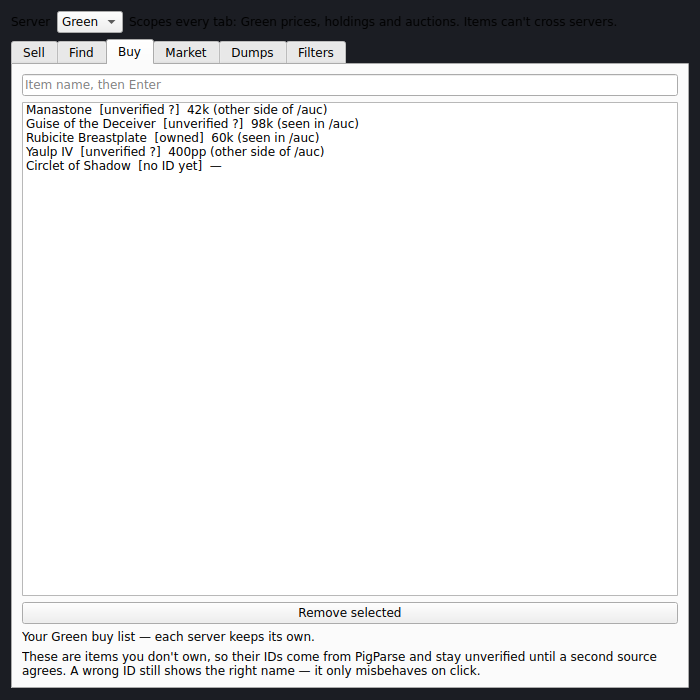
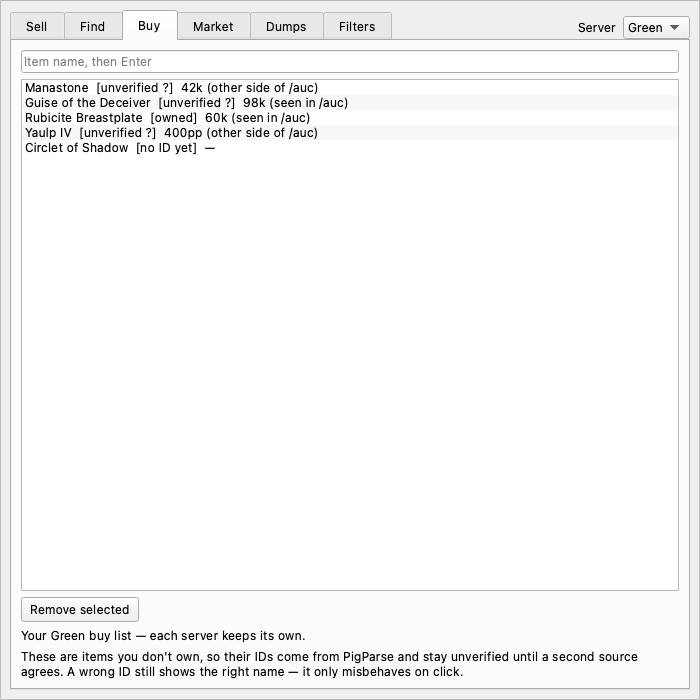
fix: one opaque panel, readable chrome, and a window that fits its own screenshots
The smoke test started failing on macOS at 704px against a 700px capture:
QStackedLayout takes the maximum minimum over every tab page, the Market
tab's detail column is the tallest, and PR #7's server strip added the last
~29px. Fixed by removing height rather than by nudging WINDOW_SIZE:

- The server picker moves into the QTabWidget's top-right corner widget,
  which is where a control that scopes every tab belongs anyway.
- The Market tab's detail column had contentsMargins three deep — the page
  layout and the QSplitter already inset it, so its own 18px was duplication.

Minimum height 704 -> 655, so 45px of headroom instead of -4. TABLE_FLOOR,
CHART_HEIGHT and WINDOW_SIZE are untouched.

Readability, which was the real bug behind the "floating" look: PluginWindow
is translucent by default — right for a spell timer over the game, wrong for
a window you read for minutes at a time. Every label outside the tab pane was
drawn over whatever happened to be behind the window, which on a dark
EverQuest night is dark grey on black. All content now sits on an opaque
QFrame, so the tabs read as attached to a window and every label has a
guaranteed contrast.

The rest is the same idea applied inward:

- Buttons take their own width, packed left. Three buttons stretched to a
  third of the window each is a dialog footer, not a toolbar.
- "Show filtered" moves to the Character row: both decide what the table
  shows, while the buttons change what is in it.
[…]

Changed region(s): [[0.0, 0.0, 1.0, 1.0]]

diff --git a/merchant_mode/window.py b/merchant_mode/window.py
@@ -6,7 +6,7 @@ domain logic never imports PySide6. The window reads plugin state through
 against a version counter, so the driver thread and the GUI thread never share
 a mutable object.
 
-One server picker sits above the tabs and scopes all of them, because items
+One server picker sits beside the tabs and scopes all of them, because items
 cannot move between P99 servers: what you can list, what it is worth, what the
 channel said about it and which mule is holding it are all questions about one
 server, and a window where two tabs disagreed about which one would be a window
@@ -36,6 +36,7 @@ from PySide6.QtWidgets import (
     QDialogButtonBox,
     QFileDialog,
     QFormLayout,
+    QFrame,
     QGroupBox,
     QHBoxLayout,
     QHeaderView,
@@ -117,6 +118,29 @@ def _read_only(text: str) -> QTableWidgetItem:
     item = QTableWidgetItem(text)
     item.setFlags(item.flags() & ~Qt.ItemFlag.ItemIsEditable)
     return item
+
+
+def _as_ledger(table: QTableWidget) -> None:
+    """The shared look for every table of rows in this window.
+
+    Banded rows instead of a full grid. Every one of these tables is read
+    *across* — item, price, who's holding it — and a grid line between each
+    pair of cells draws the eye down the columns instead, which is the shape of
+    a spreadsheet rather than of a list you scan. Banding keeps the row whole
+    and still tells adjacent rows apart, which is the one job the grid was
+    doing.
+
+    Not applied to the Market tab's window-averages table: that one genuinely
+    is a matrix, read both ways, and the grid is what makes it legible.
+    """
+    table.setAlternatingRowColors(True)
+    table.setShowGrid(False)
+    # A floor, not a fixed height: without grid lines the rows need the air to
+    # stay distinguishable, and the max() leaves a larger font's own metrics
+    # alone rather than squeezing it into a number measured at this one.
+    table.verticalHeader().setDefaultSectionSize(
+        max(table.verticalHeader().defaultSectionSize(), table.fontMetrics().height() + 10)
+    )
 
 
 def _server_label(key: str) -> str:
@@ -551,6 +575,7 @@ class MerchantModeWindow(PluginWindow):
         string."""
 
         self._tabs = QTabWidget(self)
+        self._tabs.setCornerWidget(self._build_server_bar(), Qt.Corner.TopRightCorner)
         self._tabs.addTab(self._build_sell_tab(), "Sell")
         self._tabs.addTab(self._build_find_tab(), "Find")
         self._tabs.addTab(self._build_buy_tab(), "Buy")
@@ -561,9 +586,27 @@ class MerchantModeWindow(PluginWindow):
         self._filters_page = self._build_filters_tab()
         self._tabs.addTab(self._filters_page, "Filters")
 
+        # Everything sits on one opaque panel. PluginWindow is translucent by
+        # default — the right call for a spell timer floating over the game, and
+        # the wrong one for this: any text that isn't inside the tab pane (the
+        # server picker, the tab labels' own strip) was being drawn over
+        # whatever happened to be behind the window, which on a dark EverQuest
+        # night means dark grey on black. A merchant window is a document you
+        # read for minutes at a time, not a HUD you glance at, so it gets a
+        # background of its own and every label a guaranteed contrast against
+        # it. The frame is what makes the tabs read as attached to a window
+        # rather than floating in mid-air.
+        panel = QFrame(self)
+        panel.setFrameShape(QFrame.Shape.StyledPanel)
+        panel.setAutoFillBackground(True)
+        panel_layout = QVBoxLayout(panel)
+        panel_layout.addWidget(self._tabs)
+
         layout = QVBoxLayout()
-        layout.addLayout(self._build_server_bar())
-        layout.addWidget(self._tabs)
+        # No margin of its own: the panel is the window, and a gap around it
+        # would put the translucency back as a border.
+        layout.setContentsMargins(0, 0, 0, 0)
+        layout.addWidget(panel)
         self.setLayout(layout)
 
         self._refresh_timer = QTimer(self)
@@ -574,17 +617,25 @@ class MerchantModeWindow(PluginWindow):
         self.restore_visibility()
 
     # --- construction ------------------------------------------------------
-    def _build_server_bar(self) -> QHBoxLayout:
+    def _build_server_bar(self) -> QWidget:
         """The one control that scopes the whole window.
 
-        Above the tabs rather than inside the Sell tab, which is where it used
-        to live, because it stopped being the Sell tab's business: an item
-        cannot be sold across servers, so the prices, the auctions that inform
-        them, the WTB list and the holdings search are all answers about one
-        server too. A picker that scopes every tab belongs where every tab can
-        see it.
+        Outside the tabs, which is not where it used to live: it stopped being
+        the Sell tab's business once an item's server started deciding its
+        price, its auctions, its WTB entry and where the Find tab looks. A
+        picker that scopes every tab belongs where every tab can see it.
+
+        It rides in the tab bar's corner rather than on a strip of its own.
+        Two reasons, and the second is why it moved: a lone combo box on a
+        full-width row reads as a floating fragment of toolbar, and the strip
+        cost the window ~29px of minimum height, enough to push it past the
+        700px the README's screenshots are captured at.
+
+        No explanatory sentence beside it any more. It said items can't cross
+        servers, which every P99 player already knows from playing; the
+        tooltip keeps it for anyone who wonders why the window insists.
         """
-        self._server_picker = QComboBox(self)
+        self._server_picker = QComboBox()
         self._server_picker.setToolTip(
             "Everything in this window is about one server: items can't be "
             "traded between them, so prices, auctions and inventories are all "
@@ -592,15 +643,13 @@ class MerchantModeWindow(PluginWindow):
         )
         self._server_picker.currentIndexChanged.connect(self._on_server_picked)
 
-        self._server_note = QLabel("", self)
-        # Wrapped, so the sentence contributes its longest word to the window's
-        # minimum width rather than its whole length.
-        self._server_note.setWordWrap(True)
-
-        bar = QHBoxLayout()
-        bar.addWidget(QLabel("Server", self))
-        bar.addWidget(self._server_picker)
-        bar.addWidget(self._server_note, 1)
+        bar = QWidget()
+        layout = QHBoxLayout(bar)
+        # Flush with the tab bar: a corner widget sits inside the tab strip, and
+        # a layout margin here would drop it below the tabs' baseline.
+        layout.setContentsMargins(0, 0, 0, 0)
+        layout.addWidget(QLabel("Server"))
+        layout.addWidget(self._server_picker)
         return bar
 
     def _build_sell_tab(self) -> QWidget:
@@ -609,10 +658,10 @@ class MerchantModeWindow(PluginWindow):
         self._character_picker = QComboBox(page)
         self._character_picker.setToolTip("One character's bags, or everything on this server.")
         self._character_picker.currentIndexChanged.connect(self._on_character_picked)
-
-        scope = QHBoxLayout()
-        scope.addWidget(QLabel("Character", page))
-        scope.addWidget(self._character_picker, 1)
+        # Wide enough for a long character name and no wider. Stretched across
+        # the window it read as a search bar rather than as a picker with six
+        # entries in it, and a control's width is a claim about its contents.
+        self._character_picker.setMinimumWidth(180)
 
         load = QPushButton("Load inventory dump…", page)
         load.clicked.connect(self._on_load_dump)
@@ -626,10 +675,15 @@ class MerchantModeWindow(PluginWindow):
         export = QPushButton("Export macro pack…", page)
         export.clicked.connect(self._on_export)
 
+        # Buttons at their own width, packed left, with the slack at the end.
+        # Three buttons stretched to a third of the window each is the shape of
+        # a dialog's footer, not of a toolbar, and it left "Fill prices" three
+        # times the size of its label — which reads as three times the weight.
         buttons = QHBoxLayout()
         buttons.addWidget(load)
         buttons.addWidget(fill)
         buttons.addWidget(export)
+        buttons.addStretch(1)
 
         # Two different gestures for the same complaint, and the difference is
         # the whole point. Remove crops this copy of the dump; Filter writes a
@@ -655,10 +709,18 @@ class MerchantModeWindow(PluginWindow):
         )
         self._show_filtered.toggled.connect(self._on_show_filtered)
 
+        # The checkbox sits with the picker, not with the buttons: both decide
+        # what the table shows, while the buttons change what is in it. Mixed
+        # into the button row it looked like a fourth thing you could press.
+        scope = QHBoxLayout()
+        scope.addWidget(QLabel("Character", page))
+        scope.addWidget(self._character_picker)
+        scope.addStretch(1)
+        scope.addWidget(self._show_filtered)
+
         row = QHBoxLayout()
         row.addWidget(remove)
         row.addWidget(hide)
-        row.addWidget(self._show_filtered)
         row.addStretch(1)
 
         # ID is a column you never read: it is the same "owned" on every row of
@@ -687,6 +749,7 @@ class MerchantModeWindow(PluginWindow):
         header.setSectionResizeMode(4, QHeaderView.ResizeMode.Stretch)
         for column in (0, 2, 3):
             header.setSectionResizeMode(column, QHeaderView.ResizeMode.ResizeToContents)
+        _as_ledger(self._items_table)
         self._items_table.itemChanged.connect(self._on_item_changed)
 
         self._budget = QLabel("No inventory loaded.", page)
@@ -728,13 +791,14 @@ class MerchantModeWindow(PluginWindow):
         )
         self._find_entry.textChanged.connect(self._on_find_typed)
 
-        # No Server column: every row is on the server named above the tabs, so
+        # No Server column: every row is on the server named beside the tabs, so
         # a column repeating it forty times is the ID column's mistake again.
         self._find_table = QTableWidget(0, 4, page)
         self._find_table.setHorizontalHeaderLabels(("Item", "Where", "Count", "Dumped"))
         self._find_table.verticalHeader().setVisible(False)
         self._find_table.setEditTriggers(QTableWidget.EditTrigger.NoEditTriggers)
         self._find_table.setSelectionBehavior(QAbstractItemView.SelectionBehavior.SelectRows)
+        _as_ledger(self._find_table)
         find_header = self._find_table.horizontalHeader()
         # Name and holder are both free text and both the answer; the rest take
         # only what they need.
@@ -771,6 +835,7 @@ class MerchantModeWindow(PluginWindow):
         self._dumps_table.setEditTriggers(QTableWidget.EditTrigger.NoEditTriggers)
         self._dumps_table.setSelectionBehavior(QAbstractItemView.SelectionBehavior.SelectRows)
         self._dumps_table.setSelectionMode(QAbstractItemView.SelectionMode.SingleSelection)
+        _as_ledger(self._dumps_table)
         dumps_header = self._dumps_table.horizontalHeader()
         dumps_header.setSectionResizeMode(0, QHeaderView.ResizeMode.Stretch)
         dumps_header.setSectionResizeMode(3, QHeaderView.ResizeMode.Stretch)
@@ -835,6 +900,7 @@ class MerchantModeWindow(PluginWindow):
         filter_header.setSectionResizeMode(2, QHeaderView.ResizeMode.Stretch)
         for column in (0, 1, 3):
             filter_header.setSectionResizeMode(column, QHeaderView.ResizeMode.ResizeToContents)
+        _as_ledger(self._filter_table)
         self._filter_table.itemChanged.connect(self._on_filter_toggled)
 
         self._filter_pattern = QLineEdit(page)
@@ -912,9 +978,17 @@ class MerchantModeWindow(PluginWindow):
         self._want_entry.returnPressed.connect(self._on_add_wanted)
         remove = QPushButton("Remove selected", page)
         remove.clicked.connect(self._on_remove_wanted)
+        # Packed left like every other button bar in the window rather than
+        # stretched the width of the list above it.
+        remove_row = QHBoxLayout()
+        remove_row.addWidget(remove)
+        remove_row.addStretch(1)
 
         self._want_list = QListWidget(page)
         self._want_list.setSelectionMode(QAbstractItemView.SelectionMode.ExtendedSelection)
+        # Banded like the tables: a WTB list is the same kind of thing, and a
+        # window where half the lists are striped looks like two windows.
+        self._want_list.setAlternatingRowColors(True)
 
         self._want_note = QLabel("", page)
         self._want_note.setWordWrap(True)
@@ -930,7 +1004,7 @@ class MerchantModeWindow(PluginWindow):
         layout = QVBoxLayout()
         layout.addWidget(self._want_entry)
         layout.addWidget(self._want_list, 1)
-        layout.addWidget(remove)
+        layout.addLayout(remove_row)
         layout.addWidget(self._want_note)
         layout.addWidget(note)
         page.setLayout(layout)
@@ -953,6 +1027,7 @@ class MerchantModeWindow(PluginWindow):
 
         self._results = QListWidget(page)
         self._results.setMinimumHeight(TABLE_FLOOR)
+        self._results.setAlternatingRowColors(True)
         self._results.currentTextChanged.connect(self._on_result_selected)
         self._results.itemActivated.connect(lambda _item: self._on_search_submitted())
 
@@ -998,6 +1073,7 @@ class MerchantModeWindow(PluginWindow):
         self._detail_seen.setHorizontalHeaderLabels(("When", "Price", "Side", "Seller"))
         self._detail_seen.verticalHeader().setVisible(False)
         self._detail_seen.setEditTriggers(QTableWidget.EditTrigger.NoEditTriggers)
+        _as_ledger(self._detail_seen)
         self._detail_seen.horizontalHeader().setSectionResizeMode(
             0, QHeaderView.ResizeMode.Stretch
         )
@@ -1008,6 +1084,10 @@ class MerchantModeWindow(PluginWindow):
         seen_box.setLayout(seen_layout)
 
         detail_layout = QVBoxLayout()
+        # The splitter and the page layout already inset this column from the
+        # window edge; a third margin here is spacing paid twice, and on a
+        # panel this tall it is 18px of the window's minimum height.
+        detail_layout.setContentsMargins(0, 0, 0, 0)
         detail_layout.addWidget(self._detail_title)
         detail_layout.addWidget(self._detail_chart)
         detail_layout.addWidget(self._detail_table)
@@ -1029,6 +1109,7 @@ class MerchantModeWindow(PluginWindow):
         self._prices_table.horizontalHeader().setSectionResizeMode(
             0, QHeaderView.ResizeMode.Stretch
         )
+        _as_ledger(self._prices_table)
         self._prices_table.itemSelectionChanged.connect(self._on_feed_selected)
         self._prices_empty = QLabel(
             "Nothing auctioned yet — this fills in as nParse+ parses /auction traffic.", page
@@ -1108,11 +1189,6 @@ class MerchantModeWindow(PluginWindow):
             self._character_picker.setCurrentIndex(index if index >= 0 else 0)
         finally:
             self._character_picker.blockSignals(False)
-
-        self._server_note.setText(
-            f"Scopes every tab: {_server_label(self._current_server())} prices, "
-            "holdings and auctions. Items can't cross servers."
-        )
 
     def _current_server(self) -> str:
         return str(self._server_picker.currentData() or "")

diff --git a/tools/capture_screenshots.py b/tools/capture_screenshots.py
@@ -42,7 +42,10 @@ sys.path.insert(0, str(REPO_ROOT))
 NOW = datetime(2026, 7, 30, 21, 0, 0)
 
 # PluginWindow is translucent, so a grab has an alpha channel; compositing over
-# a solid panel colour is what makes the rounded corners look right.
+# a solid colour is what keeps a partly-transparent widget from saving as a
+# checkerboard. The merchant window now fills itself with an opaque panel and
+# so covers this entirely — it still backs the settings page, and it is what
+# any future translucent shot would land on.
 PANEL_BACKDROP = "#1b1d23"
 
 # Tall enough for the Sell tab's scope pickers and status line, and for the

diff --git a/merchant_mode/__init__.py b/merchant_mode/__init__.py
@@ -153,7 +153,7 @@ class MerchantModePlugin(NParsePlugin):
     meta = PluginMeta(
         id="merchant-mode",
         name="Merchant Mode",
-        version="0.4.0",
+        version="0.4.1",
         description=(
             "Turn your inventory into linkable WTS auction macros, find which "
             "mule is holding what, look up what anything is worth, and see how "

diff --git a/README.md b/README.md
@@ -27,7 +27,7 @@ Every image below is a real offscreen render of the actual window, generated by
 
 ### One server, everywhere
 
-The picker above the tabs scopes the **whole window**, and that is the plugin's
+The picker beside the tabs scopes the **whole window**, and that is the plugin's
 central rule rather than a convenience. Items can't move between P99 servers, so
 an item on Blue can never be sold to a buyer on Green — which makes the
 inventories you can list, the prices you can quote, the auctions that count as
